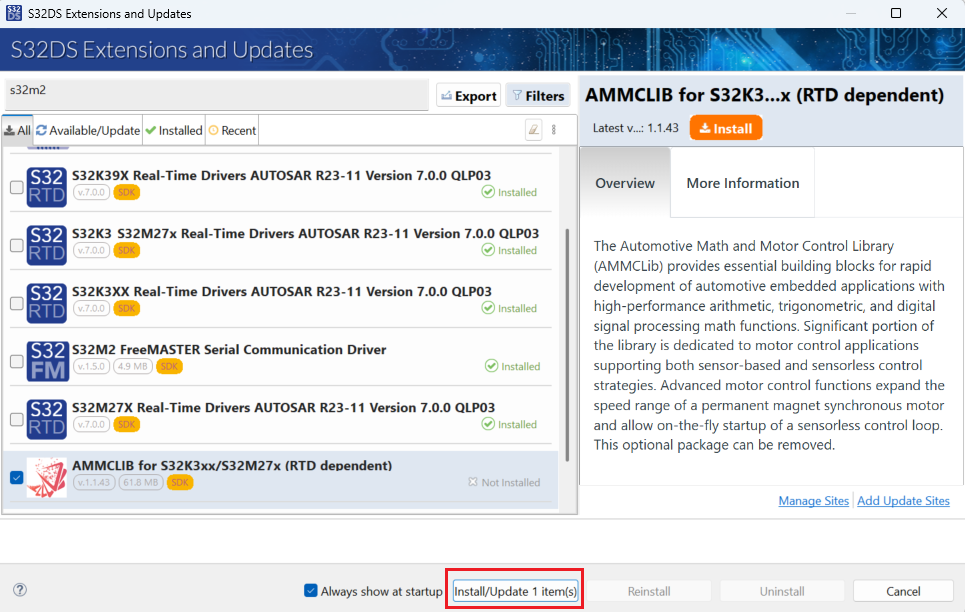
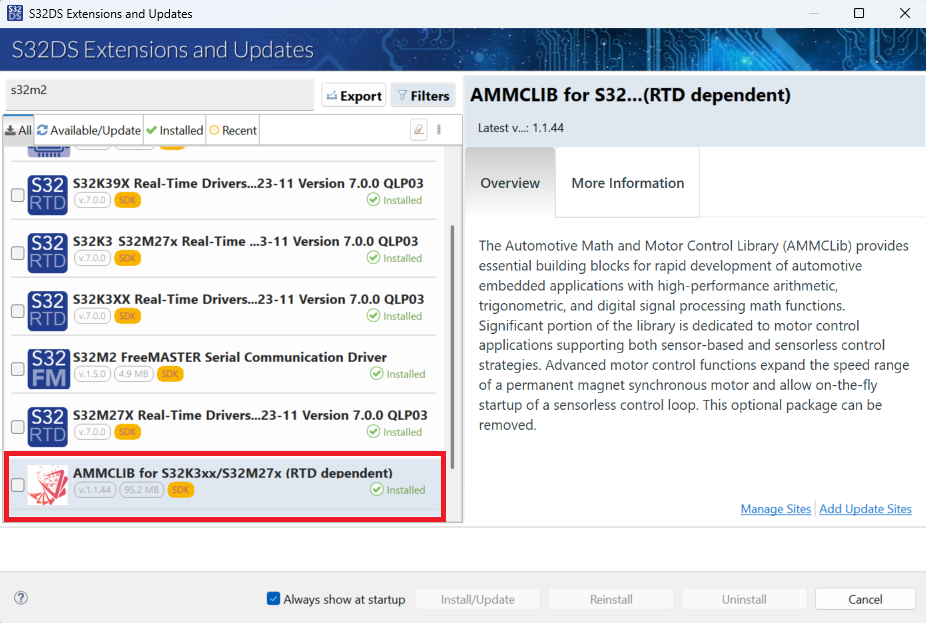
Updated to support AMMCLIB v1.1.44

diff --git a/README.md b/README.md
@@ -3,7 +3,7 @@
 
 ## AN14482 3-Phase PMSM Field-Oriented Control Solution using FRDM-A-S32M276
 
-This example demonstrates a sensorless Field Oriented Control (FOC) implementation for Permanent Magnet Synchronous Motor (PMSM) control using single shunt current sensing on the NXP S32M276 microcontroller.
+This example demonstrates a sensorless Field Oriented Control (FOC) implementation for Permanent Magnet Synchronous Motor (PMSM) using single shunt current sensing on the NXP S32M276 microcontroller.
 
 The demo is based on the [AN14482 3-phase Sensorless PMSM Motor Control with S32M276](https://www.nxp.com/webapp/Download?colCode=AN14482), more details about the implementation can be found in the application note.
 The complete setup with FRDM-A-S32M276 EVB, Sunrise motor is pictured below:
@@ -26,7 +26,7 @@ The complete setup with FRDM-A-S32M276 EVB, Sunrise motor is pictured below:
 ## 1. Software and Tools<a name="step1"></a>
 This example was developed using the FRDM Automotive Bundle for S32K3. To download and install the complete software and tools ecosystem, use the following link:
 - [S32K3 FRDM Automotive Board Installation Package](https://www.nxp.com/app-autopackagemgr/automotive-software-package-manager:AUTO-SW-PACKAGE-MANAGER?currentTab=0&selectedDevices=S32K3&applicationVersionID=156)
-- [Automotive Math and Motor Control Library (AMMCLib) Rev 1.1.43](#AMMCLib)
+- [Automotive Math and Motor Control Library (AMMCLib) Rev 1.1.44](#AMMCLib)
 - [FreeMASTER Run-Time Debugging Tool](https://www.nxp.com/design/design-center/software/development-software/freemaster-run-time-debugging-tool:FREEMASTER)
 
 ## 2. Hardware<a name="step2"></a>
@@ -94,7 +94,7 @@ IMPORTANT - Read before starting the motor:
 ## 4. Results<a name="step4"></a>
 1. Open FreeMASTER Run-Time Debugging Tool and establish a connection to the target board via micro-USB cable.
 2. Open FreeMASTER_control/S32M_PMSM_Sensorless.pmpx project file in FreeMASTER.
-3. Click on **"GO"** button to establish communication with the target board: [<br><img src="images/FreeMASTER_Connect.png " width="600"/></p>](./images/FreeMASTER_Connect.png)
+3. Click on **"GO"** button to establish communication with the target board: [<br><img src="images/FreeMASTER_Connect.png" width="600"/></p>](./images/FreeMASTER_Connect.png)
 4. Go to App Control Tab and Press **"ON"** button to start the motor, set the Speed_Required value to desired motor speed (1000RPM):[<br><img src="images/FreeMASTER_Running.png" width="600"/></p>](./images/FreeMASTER_Running.png)
 5. Observe the motor iABC current waveforms in real-time on the FreeMASTER: [<br><img src="images/FreeMASTER_Waveforms.png" width="600"/></p>](./images/FreeMASTER_Waveforms.png)
 
@@ -108,6 +108,7 @@ Does FreeMASTER connect?
     │   ├─ Overcurrent → Reduce current limit, check motor wiring
     │   ├─ Overvoltage/Undervoltage → Check 12V supply is within range
     │   ├─ Ia, Ib or Ic → See Motor Phases connection are correct
+    │   ├─ AEModule → check gate driver supply voltage and Status0 value
     │   └─ FOC → Verify motor shaft is free to rotate
     └─ NO → Check "ON" button pressed, Speed_Required > 0
 ```
@@ -116,7 +117,7 @@ Does FreeMASTER connect?
   - Right-click on the project and select **Quick Fix** to install the required compiler: [<br><img src="images/S32DS_Qfix.png" width="600"/></p>](./images/S32DS_Qfix.png)
   - Alternatively, navigate to **S32DS Extensions and Updates > NXP GCC 10.2 > Install** and add the NXP GCC 10.2 compiler: [<br><img src="images/S32DS_GCC.png" width="600"/></p>](./images/S32DS_GCC.png)
 - After loading the project, there is a message "Path to collateral manifest does not exist ${S32K3xx_AMMCLIB}"
-  - Install AMMCLib<a name="AMMCLIB"></a> from **S32DS Extensions and Updates > AMMCLIB for S32K3xx/S32M27x > Install** [<br><img src="images/S32DS_AMMCLIB.png" width="600"/></p>](./images/S32DS_AMMCLIB.png)
+  - Install AMMCLIB<a name="AMMCLib"></a> from **S32DS Extensions and Updates > AMMCLIB for S32K3xx/S32M27x > Install** [<br><img src="images/S32DS_AMMCLIB.png" width="600"/></p>](./images/S32DS_AMMCLIB.png)
 
 ## 6. Support<a name="step6"></a>
 * [AN14482 3-phase Sensorless PMSM Motor Control with S32M276](https://www.nxp.com/webapp/Download?colCode=AN14482)
@@ -153,3 +154,4 @@ Questions regarding the content/correctness of this example can be entered as Is
 | Version | Description / Update                           | Date                        |
 |:-------:|------------------------------------------------|----------------------------:|
 | 1.0     | Initial release on Application Code Hub        | February 27<sup>th</sup> 2026 |
+| 1.1     | Updated to support AMMCLIB v1.1.44             | May 11<sup>th</sup> 2026 |